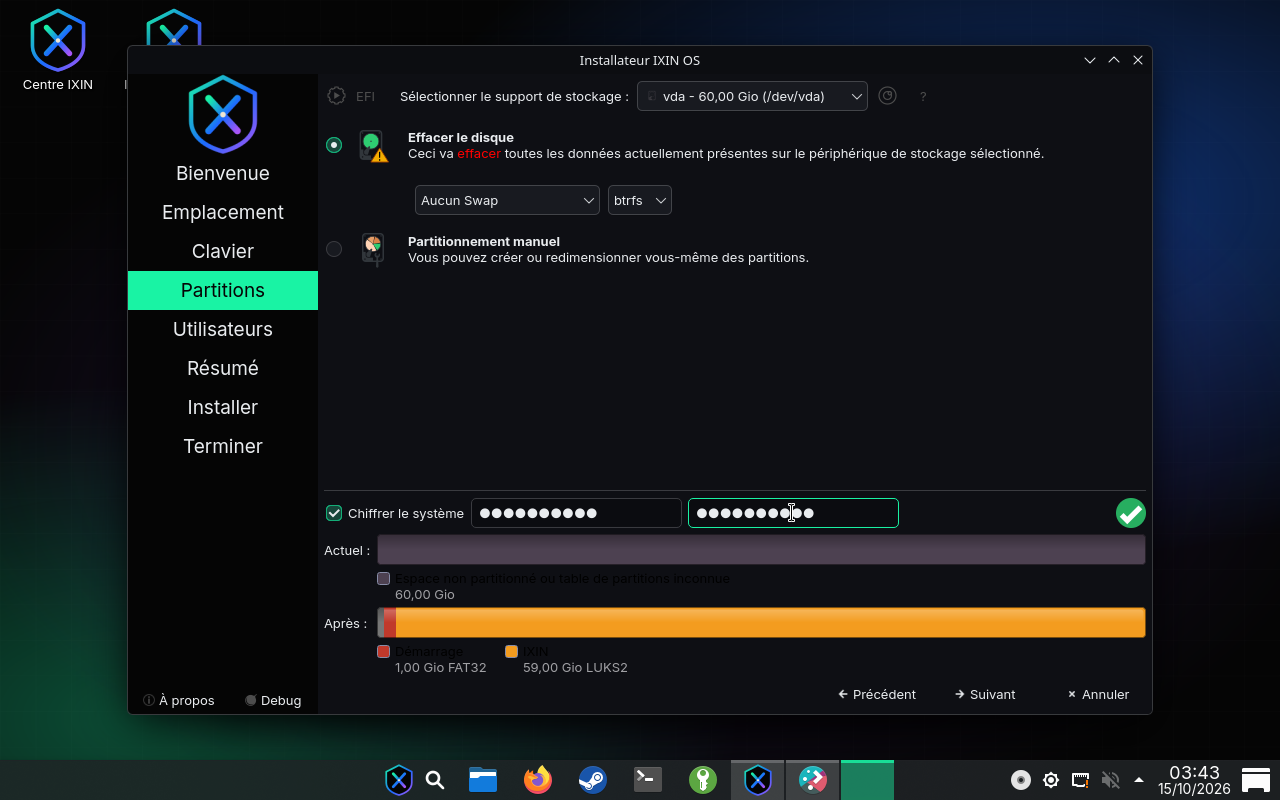
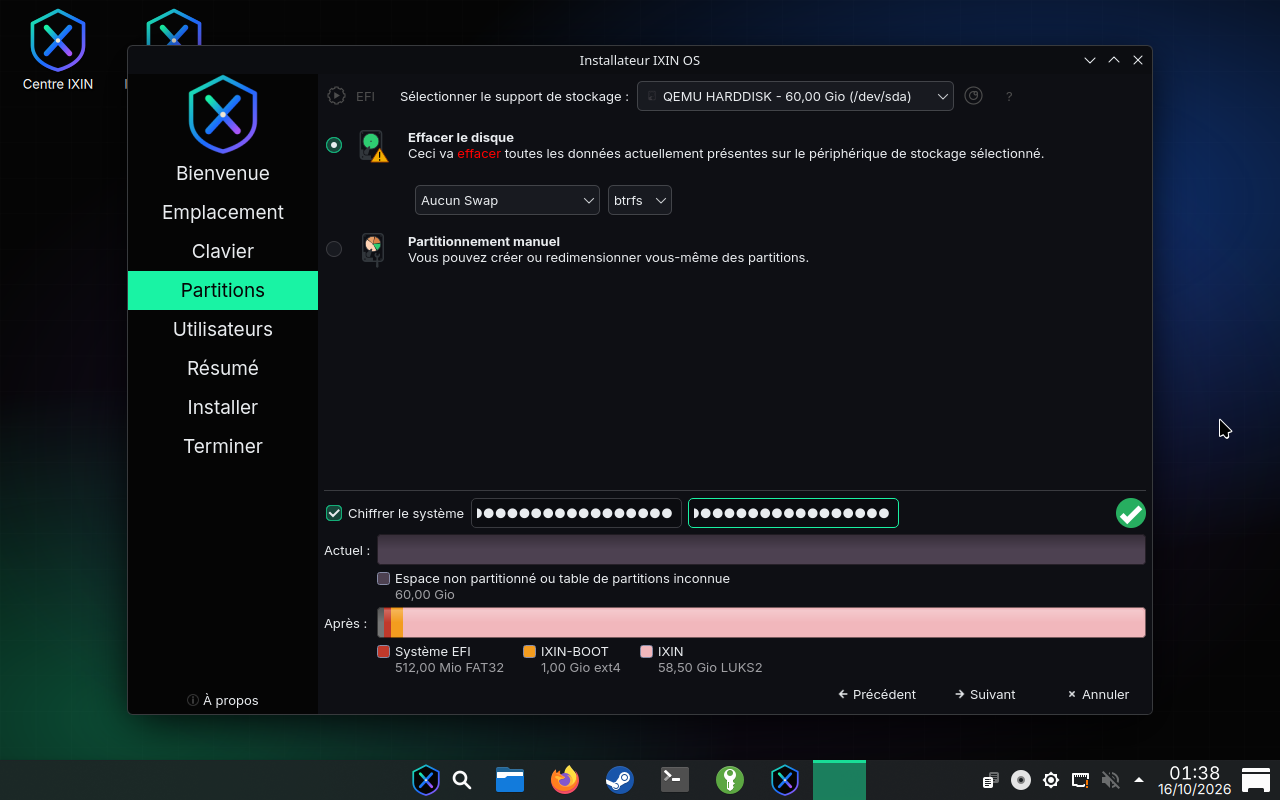
Docs : captures d'écran de toute l'installation depuis Windows
- IXIN OS Setup : 11 captures des pages (données d'exemple, générées par
  --screenshots sur Windows dans l'intégration continue).
- Côté IXIN (ISO build-2026.10.15-3 en machine virtuelle, PC Windows simulé) :
  fenêtre d'accueil « Installer IXIN OS à côté de Windows » et étape
  « Partitions » (Espace libre sélectionné, système chiffré).
- installeur-partitions-chiffrement.png remplacée : nouvelle disposition
  (EFI 512 Mio, IXIN-BOOT 1 Gio, IXIN LUKS2), légende lisible.
- Contexte du site : §3 détaillé, correctifs attendus dans la prochaine
  version (§9). Guide d'installation : captures aux étapes clés, mise en
  garde sur l'option « Installer à côté » encore affichée en -3.

Claude-Session: https://claude.ai/code/session_012gVJg5y5f1XFaeWzCvqDSH

diff --git a/docs/CONTEXTE-IXIN-OS.md b/docs/CONTEXTE-IXIN-OS.md
@@ -4,7 +4,8 @@
 > **os.ixin.online** (presentation, downloads, documentation). Everything stated here exists and has been
 > tested, unless explicitly marked otherwise. **Please do not invent features that are not listed here.**
 >
-> **Last update: October 15, 2026 — current release `build-2026.10.15-3`.**
+> **Last update: October 15, 2026 (evening) — current release `build-2026.10.15-3`** (new: §3 screenshots of the whole
+> "install from Windows" journey, §9 fixes coming with the next build).
 > Companion file (French, ready to adapt into a page): `docs/INSTALLATION-WINDOWS.md`, the complete
 > "Installer IXIN OS à côté de Windows" user guide.
 
@@ -59,19 +60,58 @@
   Black background with a faint grid, blue/green/violet halos, the shield in the center, "IXIN OS" in thin, widely spaced letters, and the tagline in JetBrains Mono.
 - Tone: dark, premium, minimalist, "tech / security".
 
-## 3. Screenshots (real, taken in a VM during testing)
+## 3. Screenshots (real, taken during testing)
 
-In `docs/screenshots/` (1280×800, VM without 3D acceleration):
+All in `docs/screenshots/`. Raw URL for any of them:
+`https://raw.githubusercontent.com/hashcat-max/IXIN-GROUP/ccr-f4f50bff-01pzqi/docs/screenshots/<file>`
+(better: copy the files into the site itself).
+
+**Desktop and installed system** (1280×800, full screen, VM without 3D acceleration):
 - `bureau.png`: desktop with the Windows 11-style taskbar
 - `centre-ixin.png`: the IXIN Center application (welcome screen)
-- `menu-demarrage-live.png`: boot menu of the USB stick / ISO
 - `menu-demarrage-ixin-windows.png`: **dual-boot menu** of an installed PC (IXIN / Windows / UEFI Firmware Settings)
 - `deverrouillage-chiffrement.png`: IXIN boot screen asking for the encrypted disk password
 - `ecran-connexion.png`: login screen of the installed system
 - `ixin-secure.png`: security status in the terminal (installed system)
 - `grub-installe.png`: IXIN boot screen of the installed system
-- `installeur-emplacement.png`, `installeur-utilisateur.png`, `installeur-diaporama.png`: graphical installer
-- ⚠ `installeur-partitions-chiffrement.png` shows the **old** partition layout: do not use it on the site.
+- `menu-demarrage-live.png`: boot menu of the USB stick / ISO
+
+**Install from Windows, part 1: the IXIN OS Setup program** (`ixin-os-setup-*.png`, 780×600, the program's
+window without its title bar). Generated by the program itself (`IXIN-OS-Setup.exe --screenshots <folder>`, run by
+GitHub Actions on a real Windows) with **sample data**: a Windows 11 PC with a 1 TB SSD, 412 GB free on C:,
+BitLocker on, Secure Boot on. Nothing is real: the BitLocker key shown is fake. In the order of the journey:
+1. `ixin-os-setup-1-analyse.png`: "Analyse du PC…"
+2. `ixin-os-setup-2-verification.png`: check of the PC (✔ compatible UEFI PC, ✔ GPT disk, ✔ space available,
+   ⚠ Secure Boot on, ⚠ Windows encrypted with BitLocker)
+3. `ixin-os-setup-3-espace.png`: choosing the space for IXIN OS (slider, 80 GB) and the download
+4. `ixin-os-setup-4-cle-bitlocker.png`: the BitLocker recovery key to note (button greyed until confirmed)
+5. `ixin-os-setup-5-confirmation.png`: "Vérifiez avant de commencer", the full list of what will be changed
+6. `ixin-os-setup-6-preparation.png`: preparation in progress (download of IXIN OS)
+7. `ixin-os-setup-7-secure-boot.png`: last step when Secure Boot is on ("Redémarrer vers les paramètres UEFI")
+8. `ixin-os-setup-8-tout-est-pret.png`: "Tout est prêt !" when Secure Boot is already off
+9. `ixin-os-setup-9-installation-prete.png`: the program reopened before installing ("Annuler la préparation")
+10. `ixin-os-setup-10-ixin-installe.png`: the program reopened once IXIN OS is installed ("Rendre 6 Go à Windows",
+    "Remettre le menu IXIN au démarrage")
+- `ixin-os-setup-reduction-bloquee.png`: a blocking check ("C: ne peut pas être réduit assez") with the
+  "Débloquer la réduction" button — for a troubleshooting section.
+
+**Install from Windows, part 2: on the IXIN side** (1280×800, the published ISO `build-2026.10.15-3` in a VM,
+on a simulated Windows PC prepared like IXIN OS Setup does):
+- `depuis-windows-guide.png`: the welcome window shown when the PC restarts into IXIN OS ("IXIN OS Setup a préparé
+  un espace libre de 73 Go pour IXIN OS"), with "Lancer l'installation"
+- `depuis-windows-partitions.png`: the "Partitions" step in this mode: only "Remplacer une partition" (preselected)
+  and manual partitioning; the "Espace libre" zone selected and "Chiffrer le système" ticked; the "Après" bar shows
+  IXIN-BOOT (1 GB) + IXIN (72 GB, LUKS2) in the free space, every Windows partition untouched. ⚠ This shows the
+  **next** build: in `build-2026.10.15-3` an extra "Installer à côté" option still appears here (§9).
+- then `menu-demarrage-ixin-windows.png` (above): the IXIN / Windows menu after installation.
+
+**USB installer** (1280×800):
+- `installeur-partitions-chiffrement.png`: whole-disk install, "Effacer le disque" + "Chiffrer le système" — current
+  layout: EFI system partition 512 MB, IXIN-BOOT 1 GB (ext4), IXIN (LUKS2). *(Replaced: the old file
+  showed an outdated layout.)*
+- `installeur-emplacement.png` (time zone map), `installeur-utilisateur.png` (user account),
+  `installeur-diaporama.png` (installation in progress). Taken with the installer in debug mode: a small "Debug"
+  button appears at the bottom left, which users do not see.
 
 ## 4. Features (what is actually in the OS)
 
@@ -177,7 +217,9 @@ Requirements (both): 64-bit (x86_64) PC, **UEFI** recommended (legacy BIOS works
   6. **restart**: straight into the installer, or first into the UEFI settings if **Secure Boot** must be turned off;
   7. in the IXIN OS live system, a welcome window explains the single choice to make: at the **"Partitions"** step,
      "Remplacer une partition" is preselected → click the grey **"Espace libre"** zone → tick **"Chiffrer le système"**
-     (recommended). Erasing the disk or shrinking Windows again is refused in this mode;
+     (recommended). In this mode the disk cannot be erased and Windows partitions cannot be selected
+     (screenshots `depuis-windows-guide.png`, `depuis-windows-partitions.png`; in `build-2026.10.15-3` an
+     "Installer à côté" option still appears too, removed in the next build — §9);
   8. finish the installation (name, password), restart: the IXIN menu offers IXIN OS and Windows.
 - On the first start of IXIN OS, the temporary "IXIN-SETUP" partition (6 GB) and the "IXIN OS Setup" menu are
   removed automatically. Running IXIN OS Setup again in Windows then offers **"Rendre 6 Go à Windows"**.
@@ -283,6 +325,11 @@ Current release: **`build-2026.10.15-3`** (October 15, 2026) — https://github.
 - Known limits: Secure Boot must be off; IXIN OS Setup is not code-signed (SmartScreen warning); BIOS / MBR PCs need a USB
   stick; IXIN OS Setup installs on the Windows disk only; no automatic **uninstall** of IXIN OS yet; "Installer à côté"
   from a USB stick not yet tested with a real Windows.
+- **Fixed in the source, coming with the next build** (not yet in `build-2026.10.15-3`):
+  - installer started from Windows: the "Installer à côté" option (shrinking Windows a second time) is no longer
+    offered — in `-3` it still appears, although the welcome window says it is blocked;
+  - IXIN OS Setup: a disabled button is now clearly greyed out (in `-3`, a disabled "Continuer" stayed bright green).
+  The screenshots of §3 already show these fixed screens.
 - Ideas for later versions: Secure Boot signing, code signing for IXIN OS Setup, uninstall from Windows,
   an optional "macOS-style" layout (dock), an optional security toolbox, translations.
 

diff --git a/docs/INSTALLATION-WINDOWS.md b/docs/INSTALLATION-WINDOWS.md
@@ -32,11 +32,20 @@ IXIN OS Setup vérifie tout cela lui-même et explique ce qui bloque.
    complémentaires → Exécuter quand même** (le programme n'est pas encore signé par un
    certificat de signature de code ; son code source est public, dossier `windows/`).
 2. **Vérification du PC** : chaque point est expliqué (✔ bon, ⚠ à savoir, ✖ bloquant).
+
+   <img src="screenshots/ixin-os-setup-2-verification.png" alt="IXIN OS Setup : vérification du PC" width="480">
+
 3. **Espace pour IXIN OS** : choisissez la taille (curseur). Le programme d'installation est
    téléchargé automatiquement (environ 5 Go), ou vous pouvez choisir une ISO déjà téléchargée
    (le fichier `.sha256` publié avec elle doit être dans le même dossier).
+
+   <img src="screenshots/ixin-os-setup-3-espace.png" alt="IXIN OS Setup : espace pour IXIN OS" width="480">
+
 4. **BitLocker** (si Windows est chiffré) : votre **clé de récupération** de 48 chiffres est
    affichée ; notez-la ou enregistrez-la **ailleurs que sur ce PC** (clé USB, téléphone, papier).
+
+   <img src="screenshots/ixin-os-setup-4-cle-bitlocker.png" alt="IXIN OS Setup : clé de récupération BitLocker (exemple)" width="480">
+
 5. **Confirmation**, puis **préparation** : téléchargement et vérification de l'ISO, réduction
    de Windows, création de la partition « IXIN-SETUP », menu de démarrage. Si Windows propose
    de « formater » un nouveau disque pendant cette étape, cliquez sur **Annuler**.
@@ -45,6 +54,9 @@ IXIN OS Setup vérifie tout cela lui-même et explique ce qui bloque.
    - **Secure Boot activé** : voir la section 3, puis le PC démarre sur l'installation.
 7. Dans le menu **IXIN OS Setup**, choisissez **« Installer IXIN OS (à côté de Windows) »**.
    Le bureau d'IXIN OS s'ouvre avec une fenêtre d'accueil : cliquez sur **« Lancer l'installation »**.
+
+   <img src="screenshots/depuis-windows-guide.png" alt="Fenêtre d'accueil d'IXIN OS après IXIN OS Setup" width="640">
+
 8. Dans l'installation, à l'étape **« Partitions »** :
    - **« Remplacer une partition »** est déjà sélectionné ;
    - cliquez sur la zone grise **« Espace libre »** dans la barre du disque ;
@@ -52,10 +64,17 @@ IXIN OS Setup vérifie tout cela lui-même et explique ce qui bloque.
 
    Pour protéger Windows, effacer le disque ou réduire de nouveau Windows est refusé dans ce mode,
    et une partition Windows ne peut jamais être choisie pour être remplacée.
+   *Version build-2026.10.15-3 : une option « Installer à côté » y apparaît encore ; ne la choisissez
+   pas (elle disparaît dans la version suivante).*
+
+   <img src="screenshots/depuis-windows-partitions.png" alt="Étape Partitions : Espace libre sélectionné, système chiffré" width="640">
+
 9. Terminez l'installation (nom, mot de passe), puis redémarrez. Au démarrage, le menu IXIN propose
    **IXIN OS**, **Windows** et les paramètres du firmware (UEFI). Choisir **Windows** redémarre
    aussitôt le PC directement sur Windows, par son entrée du firmware, exactement comme si IXIN
    n'était pas là : BitLocker ne demande pas sa clé de récupération.
+
+   <img src="screenshots/menu-demarrage-ixin-windows.png" alt="Menu de démarrage IXIN : IXIN OS ou Windows" width="640">
 
 Au premier démarrage d'IXIN OS, la partition « IXIN-SETUP » (6 Go) et le menu « IXIN OS Setup »
 sont supprimés automatiquement. Pour rendre ces 6 Go à Windows : relancez IXIN OS Setup sous
